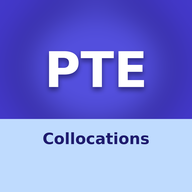
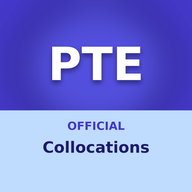
Add files via upload

Changed region(s): [[0.0, 0.5625, 1.0, 0.8125], [0.2188, 0.2188, 0.7812, 0.5]]

diff --git a/collocations/index.html b/collocations/index.html
@@ -8,7 +8,7 @@
 <meta name="theme-color" content="#4338CA">
 <link rel="apple-touch-icon" href="icon-192.png">
 <meta name="apple-mobile-web-app-capable" content="yes">
-<title>PTE Official Collocation</title>
+<title>PTE Official Collocations</title>
 <link rel="preconnect" href="https://fonts.googleapis.com">
 <link rel="preconnect" href="https://fonts.gstatic.com" crossorigin>
 <link href="https://fonts.googleapis.com/css2?family=Atkinson+Hyperlegible:wght@400;700&family=Bricolage+Grotesque:opsz,wght@12..96,500;12..96,700&display=swap" rel="stylesheet">
@@ -162,7 +162,7 @@ a.btn.buy{display:block;text-align:center;text-decoration:none;font-size:18px;pa
 <body>
 <div class="wrap">
 <header>
-  <h1><span class="a">PTE</span><span class="b">Official Collocation</span></h1>
+  <h1><span class="a">PTE</span><span class="b">Official Collocations</span></h1>
   <button class="avatar" id="avatarBtn" aria-label="Open or close your profile"></button>
 </header>
 <nav id="nav" role="tablist">
@@ -174,7 +174,7 @@ a.btn.buy{display:block;text-align:center;text-decoration:none;font-size:18px;pa
   <button role="tab" data-tab="settings" aria-selected="false">Voice</button>
 </nav>
 <main id="main"></main>
-<p class="tiny foot" style="margin-top:28px">PTE Official Collocation is an independent study app based on Pearson's Academic Collocation List (version 2/2025); it is not made by Pearson. Wrong options in the quizzes are words that are not paired in the list, so always pick the partner the list gives. <a href="privacy.html">Privacy policy</a> · <a href="delete-account.html">Delete your account</a></p>
+<p class="tiny foot" style="margin-top:28px">PTE Official Collocations is an independent study app based on Pearson's Academic Collocation List (version 2/2025); it is not made by Pearson. Wrong options in the quizzes are words that are not paired in the list, so always pick the partner the list gives. <a href="privacy.html">Privacy policy</a> · <a href="delete-account.html">Delete your account</a></p>
 </div>
 <script src="firebase-config.js" onerror="void 0"></script>
 <script src="https://cdn.jsdelivr.net/npm/firebase@12.19.0/firebase-app-compat.js"></script>
@@ -635,7 +635,7 @@ function busy(btn,on,label){btn.disabled=on;if(label)btn.textContent=label;}
 const val=id=>document.getElementById(id).value.trim();
 
 function showLogin(note){
-  authShell(`<h2>Log in</h2><p class="muted">Welcome to PTE Official Collocation. Log in to keep your progress on every device.</p>
+  authShell(`<h2>Log in</h2><p class="muted">Welcome to PTE Official Collocations. Log in to keep your progress on every device.</p>
    ${!FB_CFG?`<div class="amsg">Accounts aren't connected yet, so you can't log in on this copy of the app. You can still use everything without an account.</div><button class="btn" id="guest" style="width:100%;margin-top:10px">Continue without an account</button>`:''}
    ${field('lid','User ID (your email)','email','autocomplete="username" inputmode="email"')}
    ${pwField('lpw','Password','current-password')}

diff --git a/collocations/privacy.html b/collocations/privacy.html
@@ -1,10 +1,10 @@
 <!DOCTYPE html><html lang="en"><head><meta charset="utf-8"><meta name="viewport" content="width=device-width,initial-scale=1"><meta name="color-scheme" content="light only">
 <style>body{font-family:"Segoe UI",Verdana,Arial,sans-serif;background:#F6F7FB;color:#111827;line-height:1.6;margin:0}main{max-width:760px;margin:0 auto;padding:24px 18px 60px}
 h1{font-size:28px;margin:0 0 4px}h2{font-size:20px;margin:28px 0 6px}a{color:#4338CA}.box{background:#fff;border:1px solid #CBD5E1;border-radius:14px;padding:18px 20px}
-.tiny{color:#4B5563;font-size:14px}li{margin:4px 0}.back{display:inline-block;margin-bottom:14px}</style><title>Privacy policy · PTE Official Collocation</title></head><body><main>
+.tiny{color:#4B5563;font-size:14px}li{margin:4px 0}.back{display:inline-block;margin-bottom:14px}</style><title>Privacy policy · PTE Official Collocations</title></head><body><main>
 <a class="back" href="./">‹ Back to the app</a>
-<div class="box"><h1>Privacy policy</h1><p class="tiny">PTE Official Collocation · Last updated: 29 September 2026</p>
-<p>PTE Official Collocation ("the app") is an independent study app for learning the collocations in Pearson's Academic Collocation List. It is not made by or connected to Pearson. This policy explains what information the app collects and how it is used.</p>
+<div class="box"><h1>Privacy policy</h1><p class="tiny">PTE Official Collocations · Last updated: 29 September 2026</p>
+<p>PTE Official Collocations ("the app") is an independent study app for learning the collocations in Pearson's Academic Collocation List. It is not made by or connected to Pearson. This policy explains what information the app collects and how it is used.</p>
 <h2>Information we collect</h2>
 <ul><li><b>Account details you give us:</b> first name, last name, email address, country code and mobile number, and your password (stored securely by Google Firebase; we never see it).</li>
 <li><b>Profile picture</b>, if you choose to add one.</li>
@@ -22,4 +22,4 @@ h1{font-size:28px;margin:0 0 4px}h2{font-size:20px;margin:28px 0 6px}a{color:#43
 <p>You can delete your account at any time in the app: tap your profile picture, then <b>Delete my account</b>. You can also ask us to delete it by email; see <a href="delete-account.html">how to delete your account</a>.</p>
 <h2>Children</h2><p>The app is meant for people preparing for the PTE test and is not directed at children under 13.</p>
 <h2>Changes</h2><p>If we change this policy, we will update the date above.</p>
-<h2>Contact</h2><p>Questions or requests: <a href="mailto:koshtidharmik@gmail.com">koshtidharmik@gmail.com</a></p></div></main></body></html>
+<h2>Contact</h2><p>Questions or requests: <a href="mailto:YOUR-CONTACT-EMAIL@example.com">YOUR-CONTACT-EMAIL@example.com</a></p></div></main></body></html>

diff --git a/collocations/delete-account.html b/collocations/delete-account.html
@@ -1,13 +1,13 @@
 <!DOCTYPE html><html lang="en"><head><meta charset="utf-8"><meta name="viewport" content="width=device-width,initial-scale=1"><meta name="color-scheme" content="light only">
 <style>body{font-family:"Segoe UI",Verdana,Arial,sans-serif;background:#F6F7FB;color:#111827;line-height:1.6;margin:0}main{max-width:760px;margin:0 auto;padding:24px 18px 60px}
 h1{font-size:28px;margin:0 0 4px}h2{font-size:20px;margin:28px 0 6px}a{color:#4338CA}.box{background:#fff;border:1px solid #CBD5E1;border-radius:14px;padding:18px 20px}
-.tiny{color:#4B5563;font-size:14px}li{margin:4px 0}.back{display:inline-block;margin-bottom:14px}</style><title>Delete your account · PTE Official Collocation</title></head><body><main>
+.tiny{color:#4B5563;font-size:14px}li{margin:4px 0}.back{display:inline-block;margin-bottom:14px}</style><title>Delete your account · PTE Official Collocations</title></head><body><main>
 <a class="back" href="./">‹ Back to the app</a>
-<div class="box"><h1>Delete your account</h1><p class="tiny">PTE Official Collocation</p>
+<div class="box"><h1>Delete your account</h1><p class="tiny">PTE Official Collocations</p>
 <h2>In the app (fastest)</h2>
 <ol><li>Log in and tap your <b>profile picture</b> at the top right.</li><li>Tap <b>Delete my account</b>.</li><li>Enter your password, type DELETE and confirm.</li></ol>
 <p>Your account is deleted immediately.</p>
 <h2>By email</h2>
-<p>If you can't log in, email <a href="mailto:koshtidharmik@gmail.com?subject=Delete%20my%20account">koshtidharmik@gmail.com</a> from the email address you signed up with and ask us to delete your account. We will delete it within 30 days and confirm by email.</p>
+<p>If you can't log in, email <a href="mailto:YOUR-CONTACT-EMAIL@example.com?subject=Delete%20my%20account">YOUR-CONTACT-EMAIL@example.com</a> from the email address you signed up with and ask us to delete your account. We will delete it within 30 days and confirm by email.</p>
 <h2>What gets deleted</h2>
 <p>Your account, name, email, phone number, profile picture, progress, reports and purchase status are all deleted permanently. Payment records kept by Stripe or Google Play for tax and legal reasons are held by them under their own policies.</p></div></main></body></html>

diff --git a/collocations/sw.js b/collocations/sw.js
@@ -1,4 +1,4 @@
-const C='collocations-v7';const CORE=['./','index.html','manifest.webmanifest','icon-192.png','icon-512.png'];
+const C='collocations-v8';const CORE=['./','index.html','manifest.webmanifest','icon-192.png','icon-512.png'];
 const CACHEABLE=u=>u.origin===location.origin||/fonts\.(googleapis|gstatic)\.com$|cdn\.jsdelivr\.net$/.test(u.hostname);
 self.addEventListener('install',e=>{e.waitUntil(caches.open(C).then(c=>c.addAll(CORE)));self.skipWaiting();});
 self.addEventListener('activate',e=>{e.waitUntil(caches.keys().then(ks=>Promise.all(ks.filter(x=>x!==C).map(x=>caches.delete(x)))));self.clients.claim();});

diff --git a/collocations/firebase-config.js b/collocations/firebase-config.js
@@ -1,4 +1,4 @@
-// Firebase web app config for PTE Official Collocation (project: pte-collocation)
+// Firebase web app config for PTE Official Collocations (project: pte-collocation)
 window.FIREBASE_CONFIG = {
   apiKey: "AIzaSyDjY85ThTE3EJJfAaQffX4-qM4YTw9CocM",
   authDomain: "pte-collocation.firebaseapp.com",
